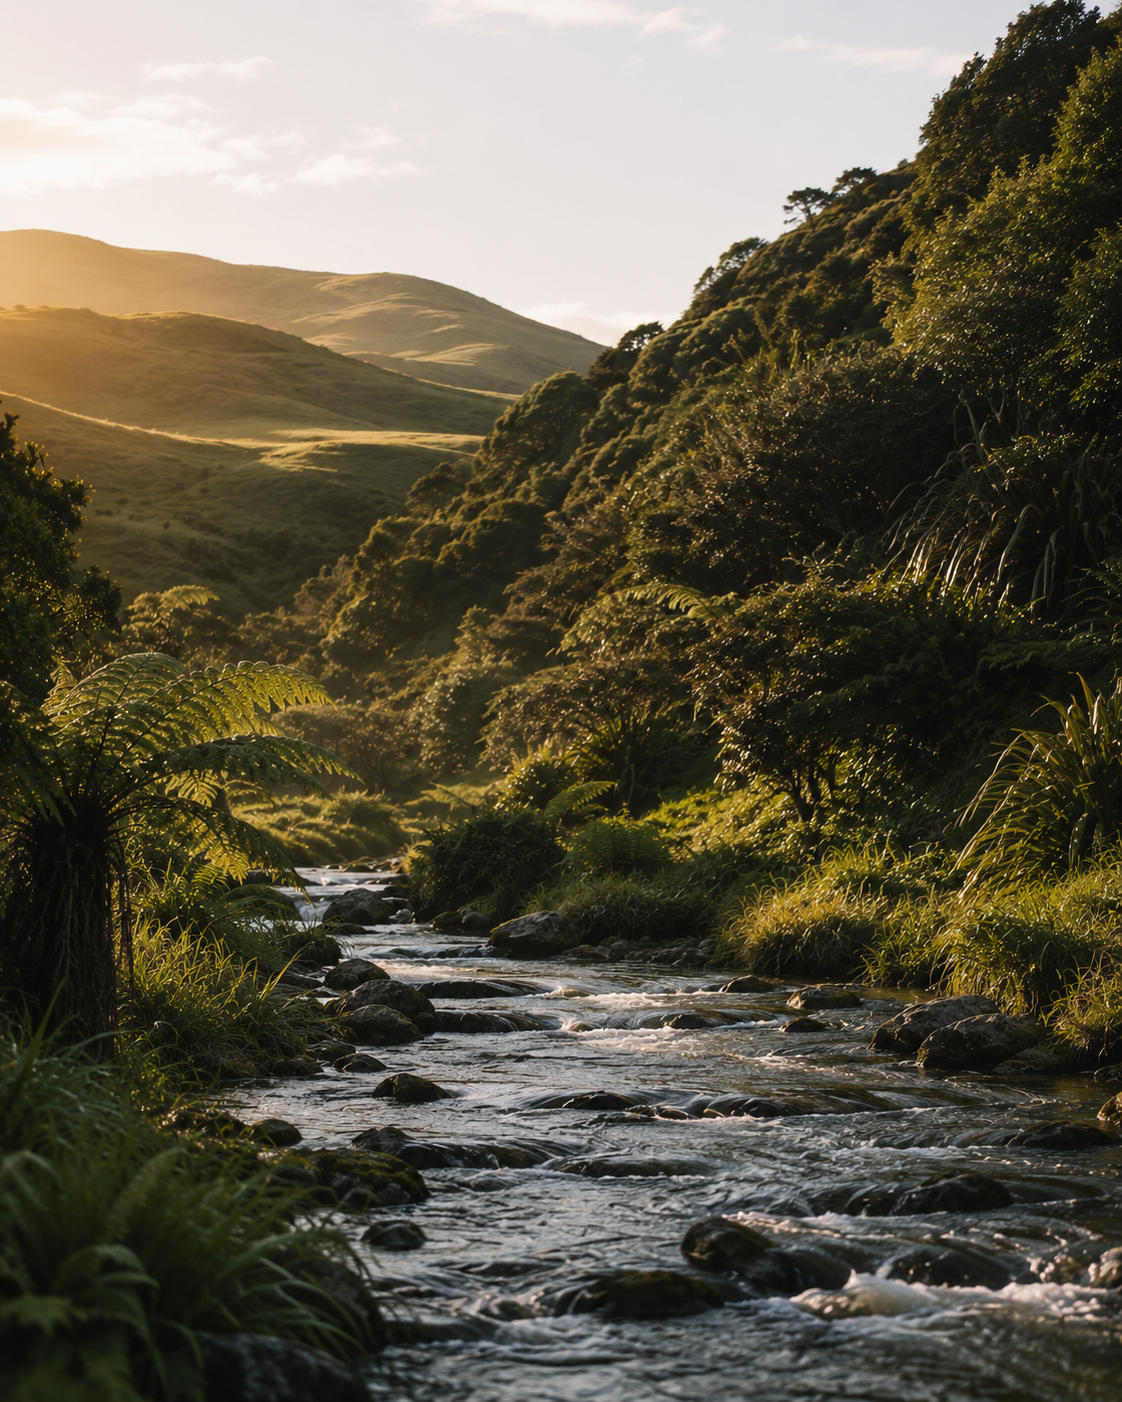
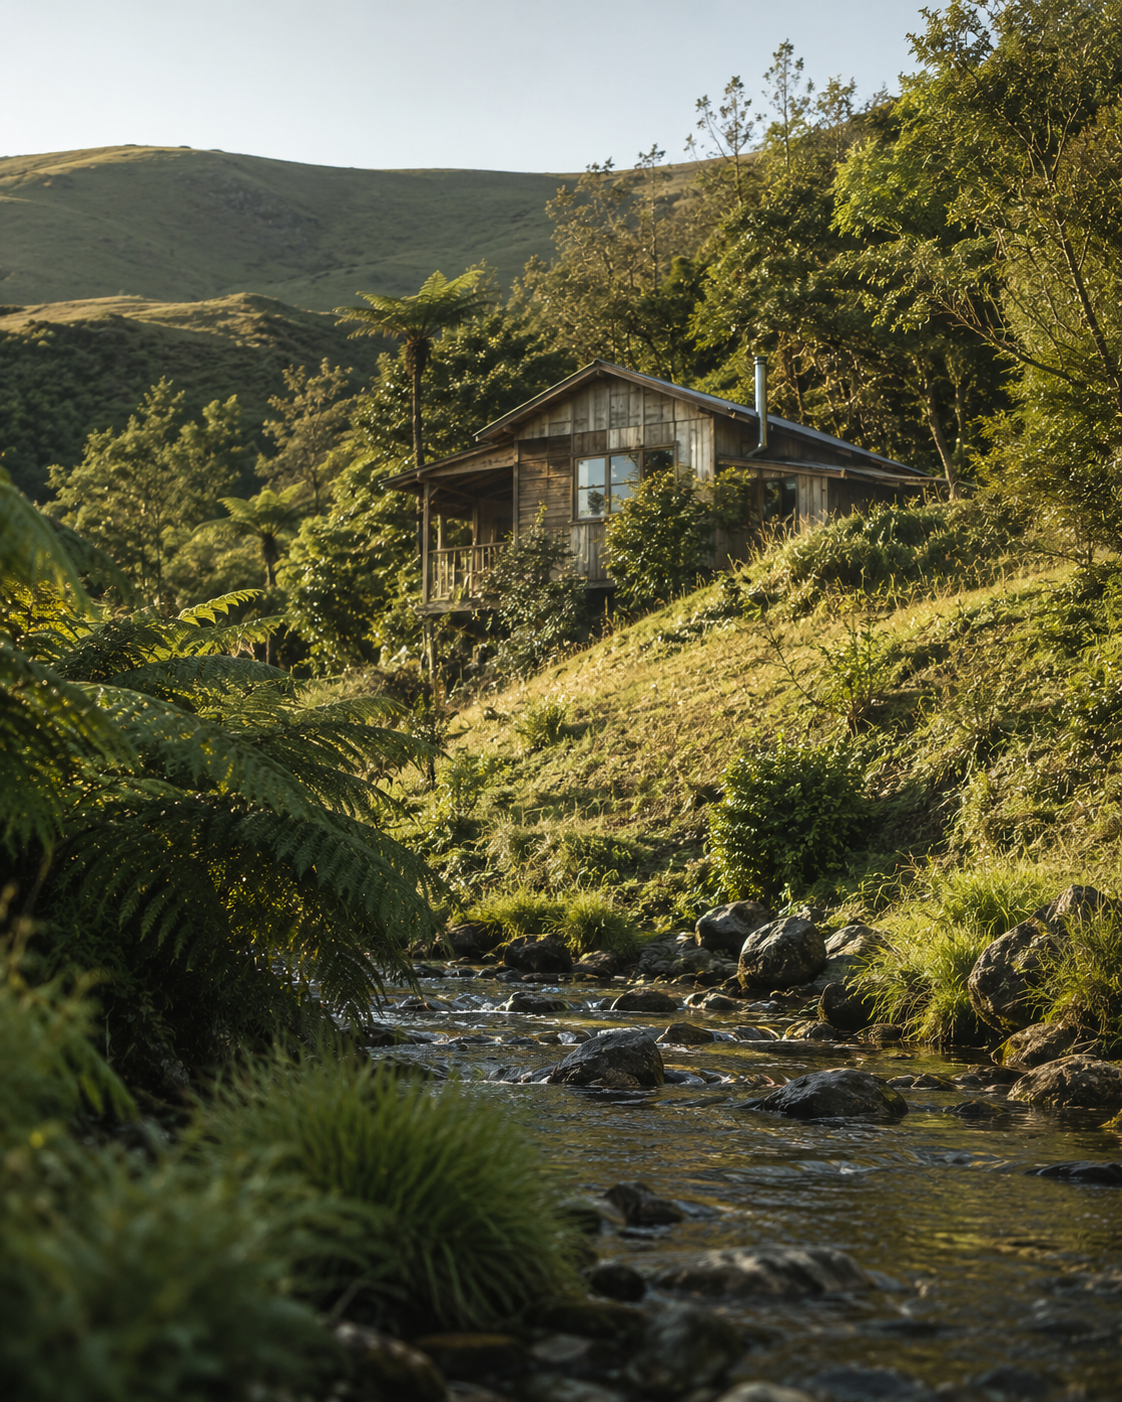
Optimize images to WebP, add V0 to compare switcher, center V2 hero
- Add scripts/optimize-images.js (npm run images): generate resized .webp
  for all photos (~90% smaller); wire pages/catalogue/CSS to use them.
- Add /v0 route showing the original homepage with the compare switcher;
  remove the Compare: label from the switcher.
- Vertically center the V2 hero content.

diff --git a/scripts/optimize-images.js b/scripts/optimize-images.js
@@ -1,0 +1,77 @@
+/*
+ * Generate web-optimized .webp versions of the images in public/images.
+ * Originals are left untouched (kept as source / fallback).
+ *
+ *   npm run images
+ *
+ * Sizing is based on how large each image is actually displayed (with some
+ * headroom for high-DPI screens). Quality 80 is a good size/quality balance.
+ */
+const path = require('path');
+const fs = require('fs');
+const sharp = require('sharp');
+
+const IMG_DIR = path.join(__dirname, '..', 'public', 'images');
+const QUALITY = 80;
+
+// Longest-edge cap (px) per image. Default applies to anything not listed.
+const DEFAULT_MAX_EDGE = 1600;
+const MAX_EDGE = {
+  // Product / hero bottles — never shown wider than ~420px, so ~1000px covers 2x.
+  'bottle.png': 1000,
+  'bottle-gin.png': 1000,
+  'bottle-limoncello.png': 1000,
+  'bottle-vodka.png': 1000,
+  'bottle-old.png': 1000,
+  'v3-bottle.png': 1000,
+  // Logos — only ever shown at <=48px.
+  'logo.png': 400,
+  'logo-white.png': 400,
+  // Legal label graphic — small, keep crisp.
+  'pregnancy-warning.png': 600,
+};
+
+const RASTER = /\.(png|jpe?g)$/i;
+
+// Tiny flat PNGs (logos) compress smaller as PNG than WebP — keep them as-is.
+const SKIP = new Set(['logo.png', 'logo-white.png']);
+
+async function run() {
+  const files = fs.readdirSync(IMG_DIR).filter((f) => RASTER.test(f) && !SKIP.has(f));
+  let beforeTotal = 0;
+  let afterTotal = 0;
+  const rows = [];
+
+  for (const file of files) {
+    const input = path.join(IMG_DIR, file);
+    const output = path.join(IMG_DIR, file.replace(RASTER, '.webp'));
+    const maxEdge = MAX_EDGE[file] || DEFAULT_MAX_EDGE;
+
+    const beforeBytes = fs.statSync(input).size;
+    await sharp(input)
+      .resize(maxEdge, maxEdge, { fit: 'inside', withoutEnlargement: true })
+      .webp({ quality: QUALITY })
+      .toFile(output);
+    const afterBytes = fs.statSync(output).size;
+
+    beforeTotal += beforeBytes;
+    afterTotal += afterBytes;
+    rows.push({
+      file,
+      before: (beforeBytes / 1024).toFixed(0) + ' KB',
+      after: (afterBytes / 1024).toFixed(0) + ' KB',
+      saved: (100 - (afterBytes / beforeBytes) * 100).toFixed(0) + '%',
+    });
+  }
+
+  console.table(rows);
+  console.log(
+    `Total: ${(beforeTotal / 1024 / 1024).toFixed(2)} MB -> ${(afterTotal / 1024 / 1024).toFixed(2)} MB ` +
+      `(${(100 - (afterTotal / beforeTotal) * 100).toFixed(0)}% smaller)`
+  );
+}
+
+run().catch((err) => {
+  console.error(err);
+  process.exit(1);
+});

diff --git a/public/styles/main.css b/public/styles/main.css
@@ -317,7 +317,7 @@ main {
 
 .order-hero {
   background: linear-gradient(135deg, rgba(20, 87, 74, 0.9), rgba(26, 114, 96, 0.7)),
-    url('../images/destill.jpg') center/cover;
+    url('../images/destill.webp') center/cover;
   color: #fff;
   padding: 6rem 0 4.5rem;
   text-align: left;
@@ -825,7 +825,7 @@ main {
 
 .design-hero {
   background: linear-gradient(135deg, rgba(20, 87, 74, 0.88), rgba(26, 114, 96, 0.72)),
-    url('../images/destill.jpg') center/cover;
+    url('../images/destill.webp') center/cover;
   color: #fff;
   padding: 6rem 0 5rem;
   text-align: center;
@@ -1719,6 +1719,36 @@ a.bc-detail-value:hover {
     right: 1.5rem;
     bottom: 1rem;
   }
+}
+
+/* ── Compare switcher (preview pages only) ── */
+.vswitch {
+  position: fixed;
+  bottom: 1.25rem;
+  left: 50%;
+  transform: translateX(-50%);
+  z-index: 60;
+  display: flex;
+  gap: 0.35rem;
+  align-items: center;
+  background: rgba(20, 20, 20, 0.9);
+  backdrop-filter: blur(6px);
+  padding: 0.4rem 0.5rem;
+  border-radius: 999px;
+  box-shadow: 0 10px 30px rgba(0, 0, 0, 0.35);
+}
+.vswitch a {
+  text-decoration: none;
+  color: #ddd;
+  font-size: 0.75rem;
+  font-weight: 600;
+  padding: 0.35rem 0.8rem;
+  border-radius: 999px;
+  letter-spacing: 0.04em;
+}
+.vswitch a.active {
+  background: #fff;
+  color: #111;
 }
 
 /* Floating ORDER button: hidden by default (desktop) */

diff --git a/src/server.js b/src/server.js
@@ -53,7 +53,7 @@ const bottleCatalogue = [
     abv: '42%',
     price: 79,
     available: true,
-    image: '/images/bottle-gin.png',
+    image: '/images/bottle-gin.webp',
     tastingNotes: 'Bright citrus, kawakawa spice and a silky finish.'
   },
   {
@@ -65,7 +65,7 @@ const bottleCatalogue = [
     abv: '30%',
     price: 45,
     available: true,
-    image: '/images/bottle-limoncello.png',
+    image: '/images/bottle-limoncello.webp',
     tastingNotes: 'Fresh lemon zest and a gentle, velvety mouthfeel.'
   },
   {
@@ -77,7 +77,7 @@ const bottleCatalogue = [
     abv: '40%',
     price: 65,
     available: false,
-    image: '/images/bottle-vodka.png',
+    image: '/images/bottle-vodka.webp',
     soldOutMessage: 'The next Seeking Vodka run is resting now. Leave your email to hear when it returns.'
   }
 ];
@@ -123,6 +123,10 @@ app.post('/design', handlePasswordPost('/design'));
 
 // Homepage design variations (for review / "lock in the style")
 app.get('/variations', (req, res) => res.render('variations'));
+// V0 = the original/live homepage, shown with the compare switcher
+app.get('/v0', (req, res) => {
+  res.render('index', { bottles: bottleCatalogue, showSwitch: true, current: 'v0' });
+});
 ['v1', 'v2', 'v3'].forEach((variant) => {
   app.get('/' + variant, (req, res) => {
     res.render(variant, { bottles: bottleCatalogue, current: variant });

diff --git a/public/styles/v2.css b/public/styles/v2.css
@@ -61,7 +61,7 @@ a { color: inherit; }
 
 /* hero — full bleed photo, restrained text */
 .v2-hero {
-  position: relative; min-height: 86vh; display: flex; align-items: flex-end;
+  position: relative; min-height: 86vh; display: flex; align-items: center;
   color: #fff; overflow: hidden;
 }
 .v2-hero-bg {
